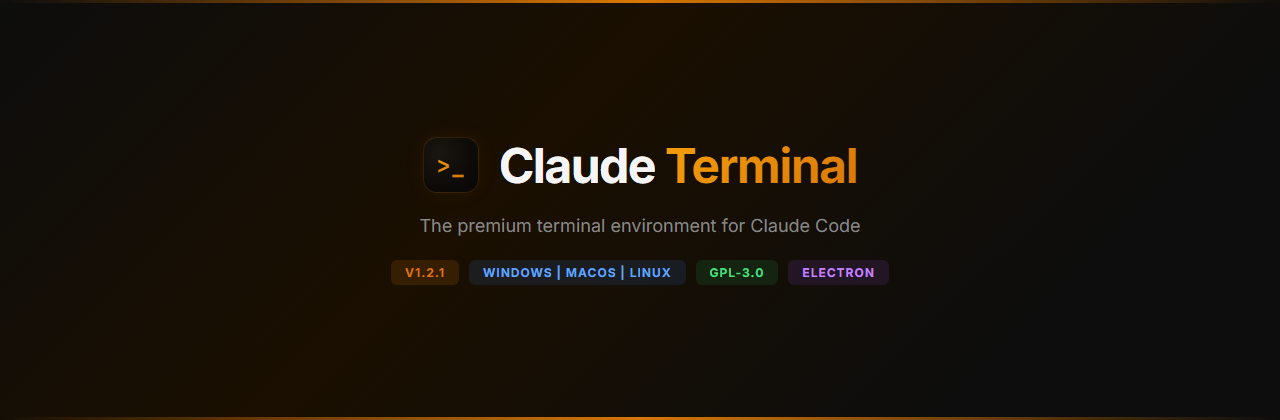
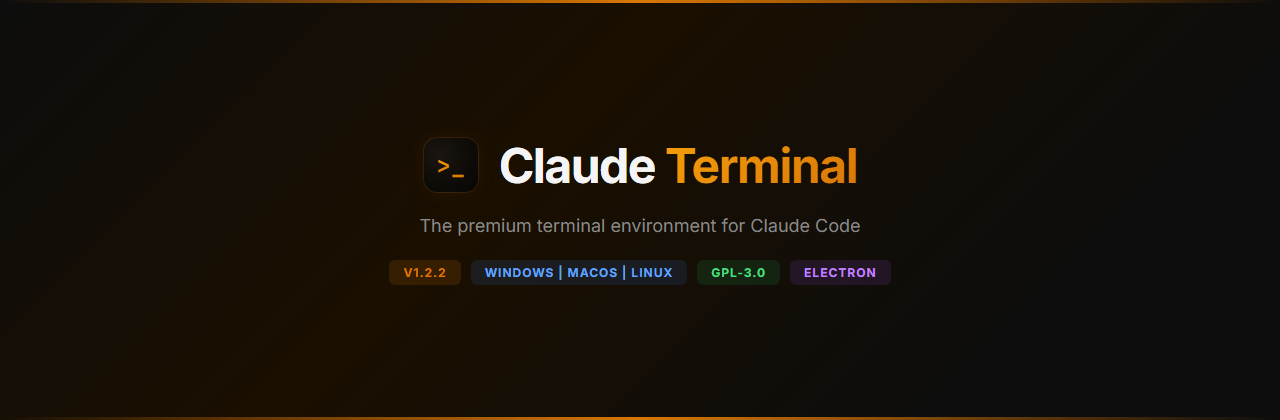
chore: bump version to 1.2.2

Changed region(s): [[0.3125, 0.619, 0.5312, 0.681], [0.625, 0.619, 0.6875, 0.681], [0.5625, 0.619, 0.5938, 0.681]]

diff --git a/README.md b/README.md
@@ -4,7 +4,7 @@
 
 <p align="center">
   <img src="https://img.shields.io/github/downloads/Sterll/claude-terminal/total?color=d97706&label=downloads" alt="Downloads" />
-  <img src="https://img.shields.io/badge/version-1.2.1-orange" alt="Version" />
+  <img src="https://img.shields.io/badge/version-1.2.2-orange" alt="Version" />
   <img src="https://img.shields.io/badge/platform-Windows%20|%20macOS%20|%20Linux-blue" alt="Platform" />
   <img src="https://img.shields.io/badge/license-GPL--3.0-green" alt="License" />
   <img src="https://img.shields.io/badge/electron-28-purple" alt="Electron" />
@@ -268,6 +268,7 @@ npm install
 ### Skills & Agents
 - Browse and manage Claude Code skills and agents
 - View SKILL.md and agent configuration files
+- **Syntax-highlighted editor**: edit skill and agent files with line numbers and full highlight.js code highlighting
 - Load skills from `~/.claude/skills`, plugins, and bundled resources
 
 ### MCP Servers
@@ -326,6 +327,12 @@ npm install
 - Insert/delete rows, search filter
 - Custom database picker for quick connection switching
 - Connection pooling with idle eviction
+
+### Workspace
+- Project-level knowledge base for storing persistent context, documentation snippets, and notes
+- **Advisor chat**: ask questions about your workspace and get answers based on your knowledge base content
+- **@workspace mention**: type @workspace in chat to inject your workspace knowledge base as context
+- MCP tools for reading and writing workspace content from Claude Code
 
 ### MCP Server (claude-terminal)
 - Unified MCP server exposing all Claude Terminal features to Claude Code
